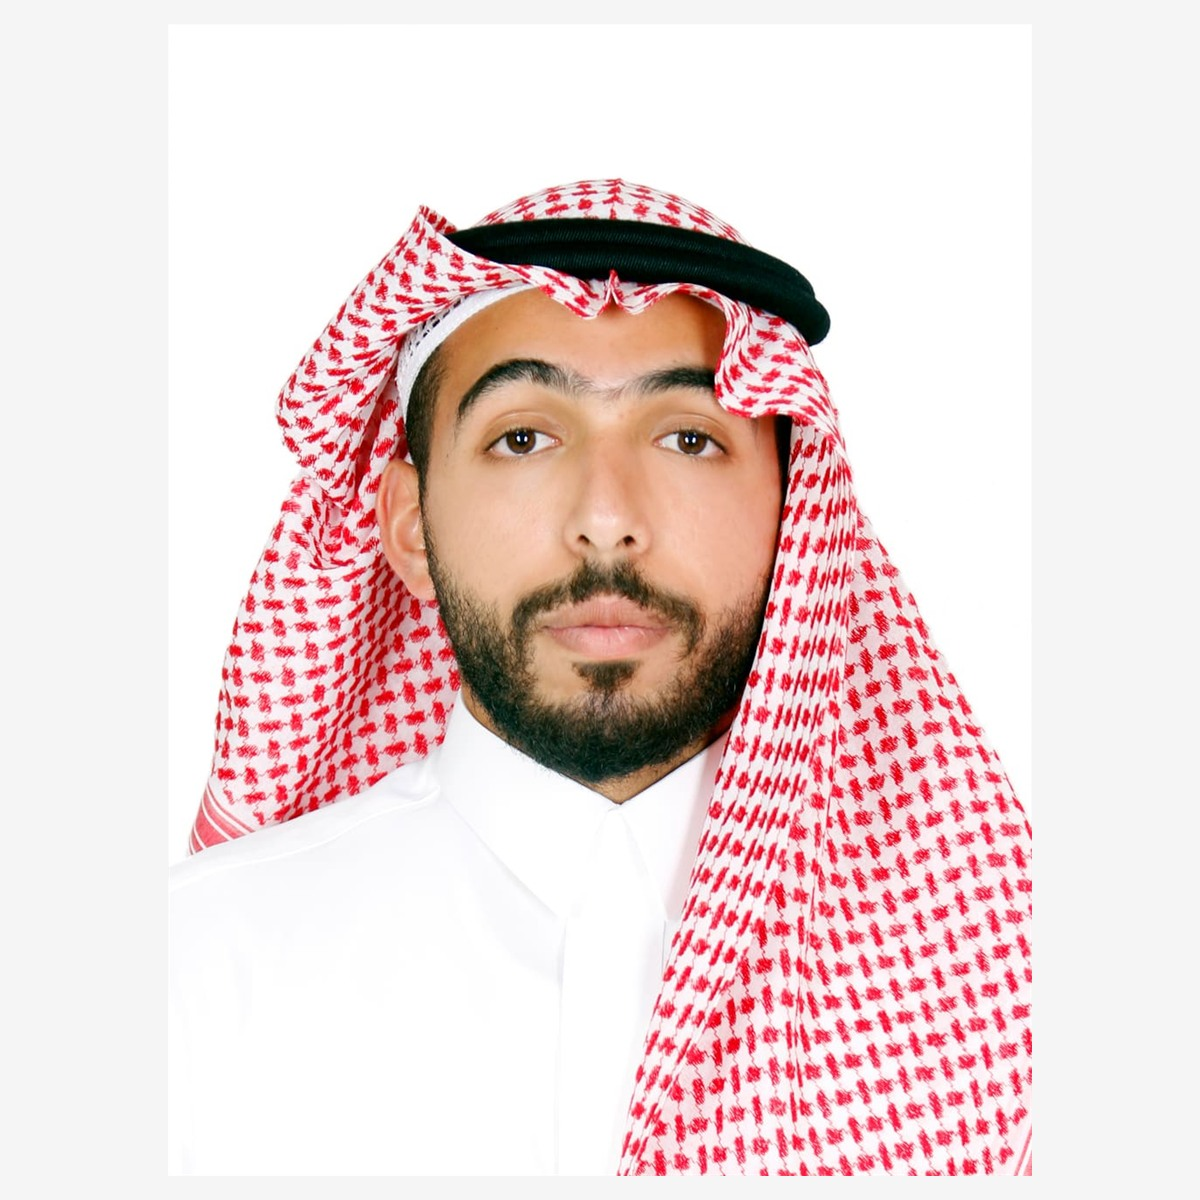
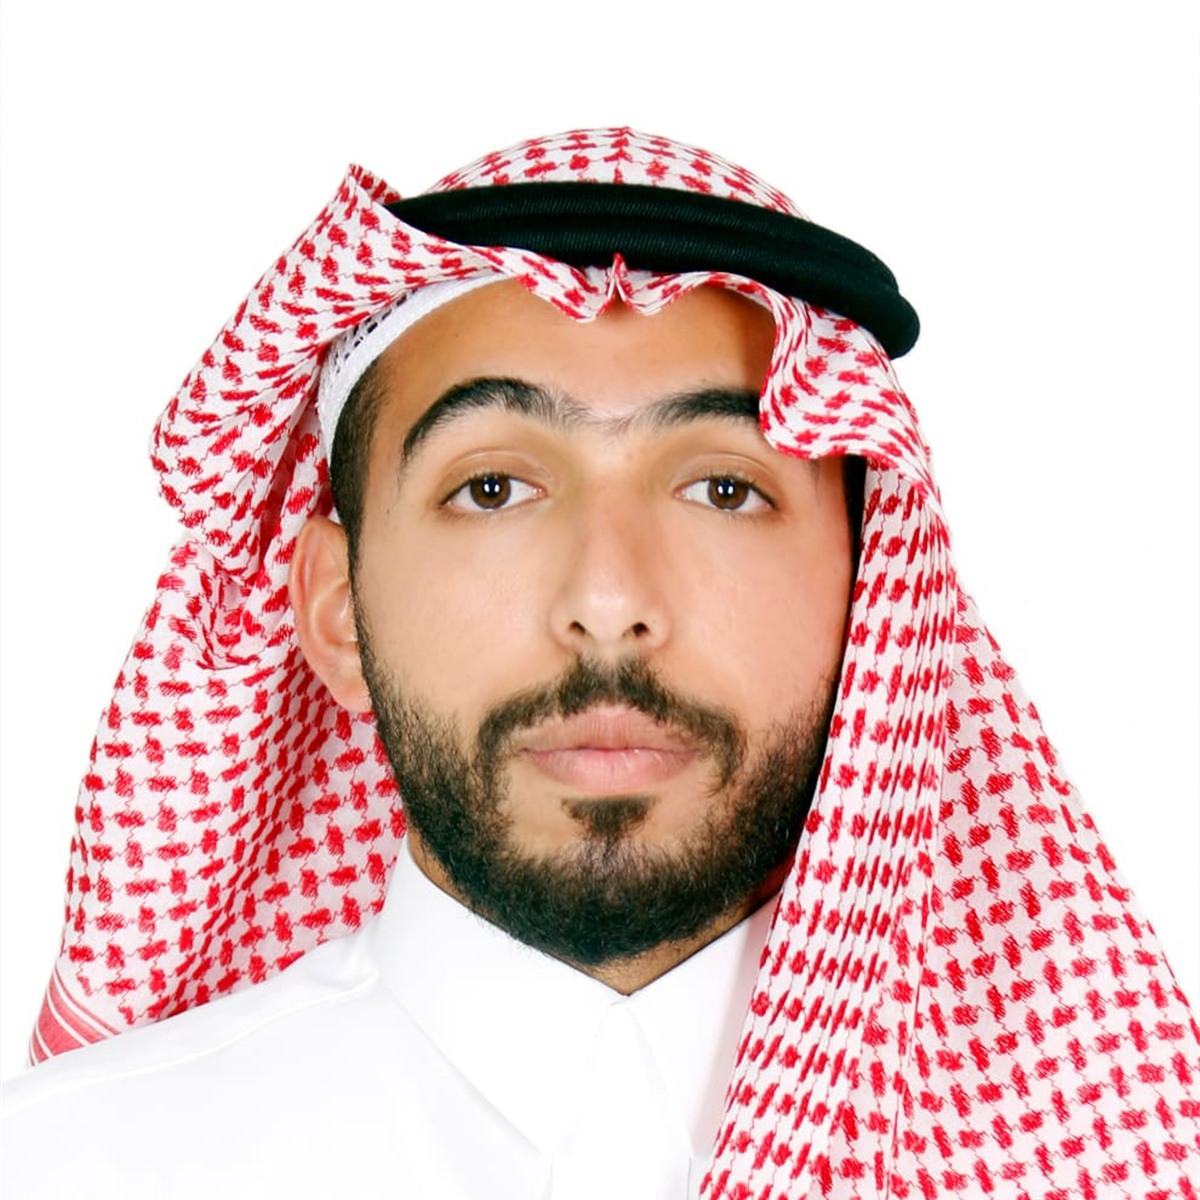
Use full-bleed square OG portrait for WhatsApp preview.

diff --git a/index.html b/index.html
@@ -21,8 +21,8 @@
       property="og:description"
       content="IT graduate focused on AI. Multi-agent graduation project, experience, and contact."
     />
-    <meta property="og:image" content="https://portfolio-peach-kappa-zftmxyoyax.vercel.app/og-image.jpg?v=5" />
-    <meta property="og:image:secure_url" content="https://portfolio-peach-kappa-zftmxyoyax.vercel.app/og-image.jpg?v=5" />
+    <meta property="og:image" content="https://portfolio-peach-kappa-zftmxyoyax.vercel.app/og-image.jpg?v=6" />
+    <meta property="og:image:secure_url" content="https://portfolio-peach-kappa-zftmxyoyax.vercel.app/og-image.jpg?v=6" />
     <meta property="og:image:type" content="image/jpeg" />
     <meta property="og:image:width" content="1200" />
     <meta property="og:image:height" content="1200" />
@@ -35,7 +35,7 @@
       name="twitter:description"
       content="IT graduate focused on AI. Multi-agent graduation project, experience, and contact."
     />
-    <meta name="twitter:image" content="https://portfolio-peach-kappa-zftmxyoyax.vercel.app/og-image.jpg?v=5" />
+    <meta name="twitter:image" content="https://portfolio-peach-kappa-zftmxyoyax.vercel.app/og-image.jpg?v=6" />
   </head>
   <body>
     <div id="root"></div>
